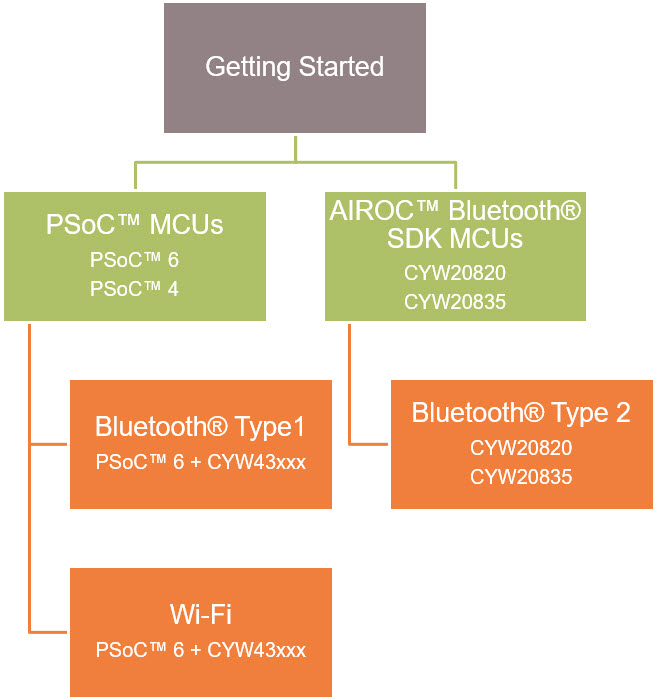
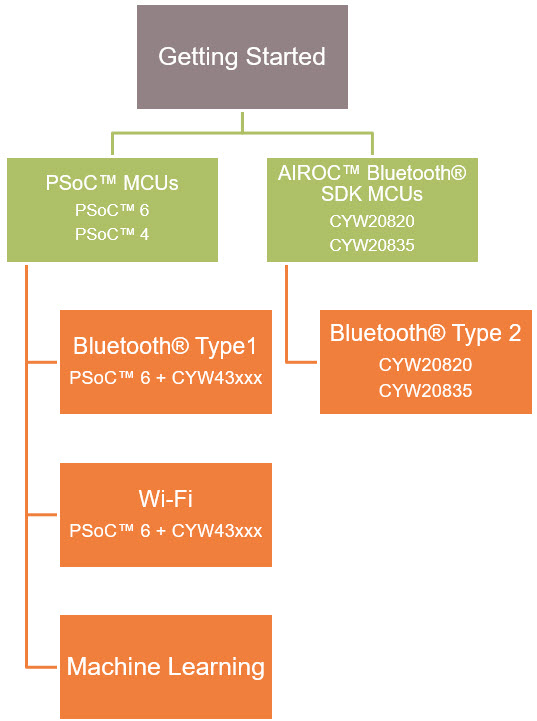
Add machine learning class

diff --git a/README.md b/README.md
@@ -37,3 +37,11 @@ UARTs, etc. The use of low power modes is also covered.
 [ModusToolbox™ Software Training Level 3 - Wi-Fi](https://github.com/infineon/training-modustoolbox-level3-wifi)
 
 - This is a class to teach how to use Wi-Fi in ModusToolbox™ applications. The descriptions and exercises use a PSoC™ 6 MCU as a host to a CYW43012 connectivity device.
+
+[ModusToolbox™ Software Training Level 3 - Machine Learning](https://github.com/infineon/training-modustoolbox-level3-machine-learning)
+
+- This is a class to teach how to use the ModusToolbox™ Machine Learning solution. The descriptions and exercises use a PSoC™ 6 MCU along with motion sensors and microphones to develop IoT applications for gesture detection, keyword detection, etc.
+
+- After completing this class, you should be able to create and debug machine learning applications using ModusToolbox™. Several Infineon machine learning partners are also discussed.
+
+- The ModusToolbox™ Machine Learning Technology Pack must be installed to complete the exercises in this class.
